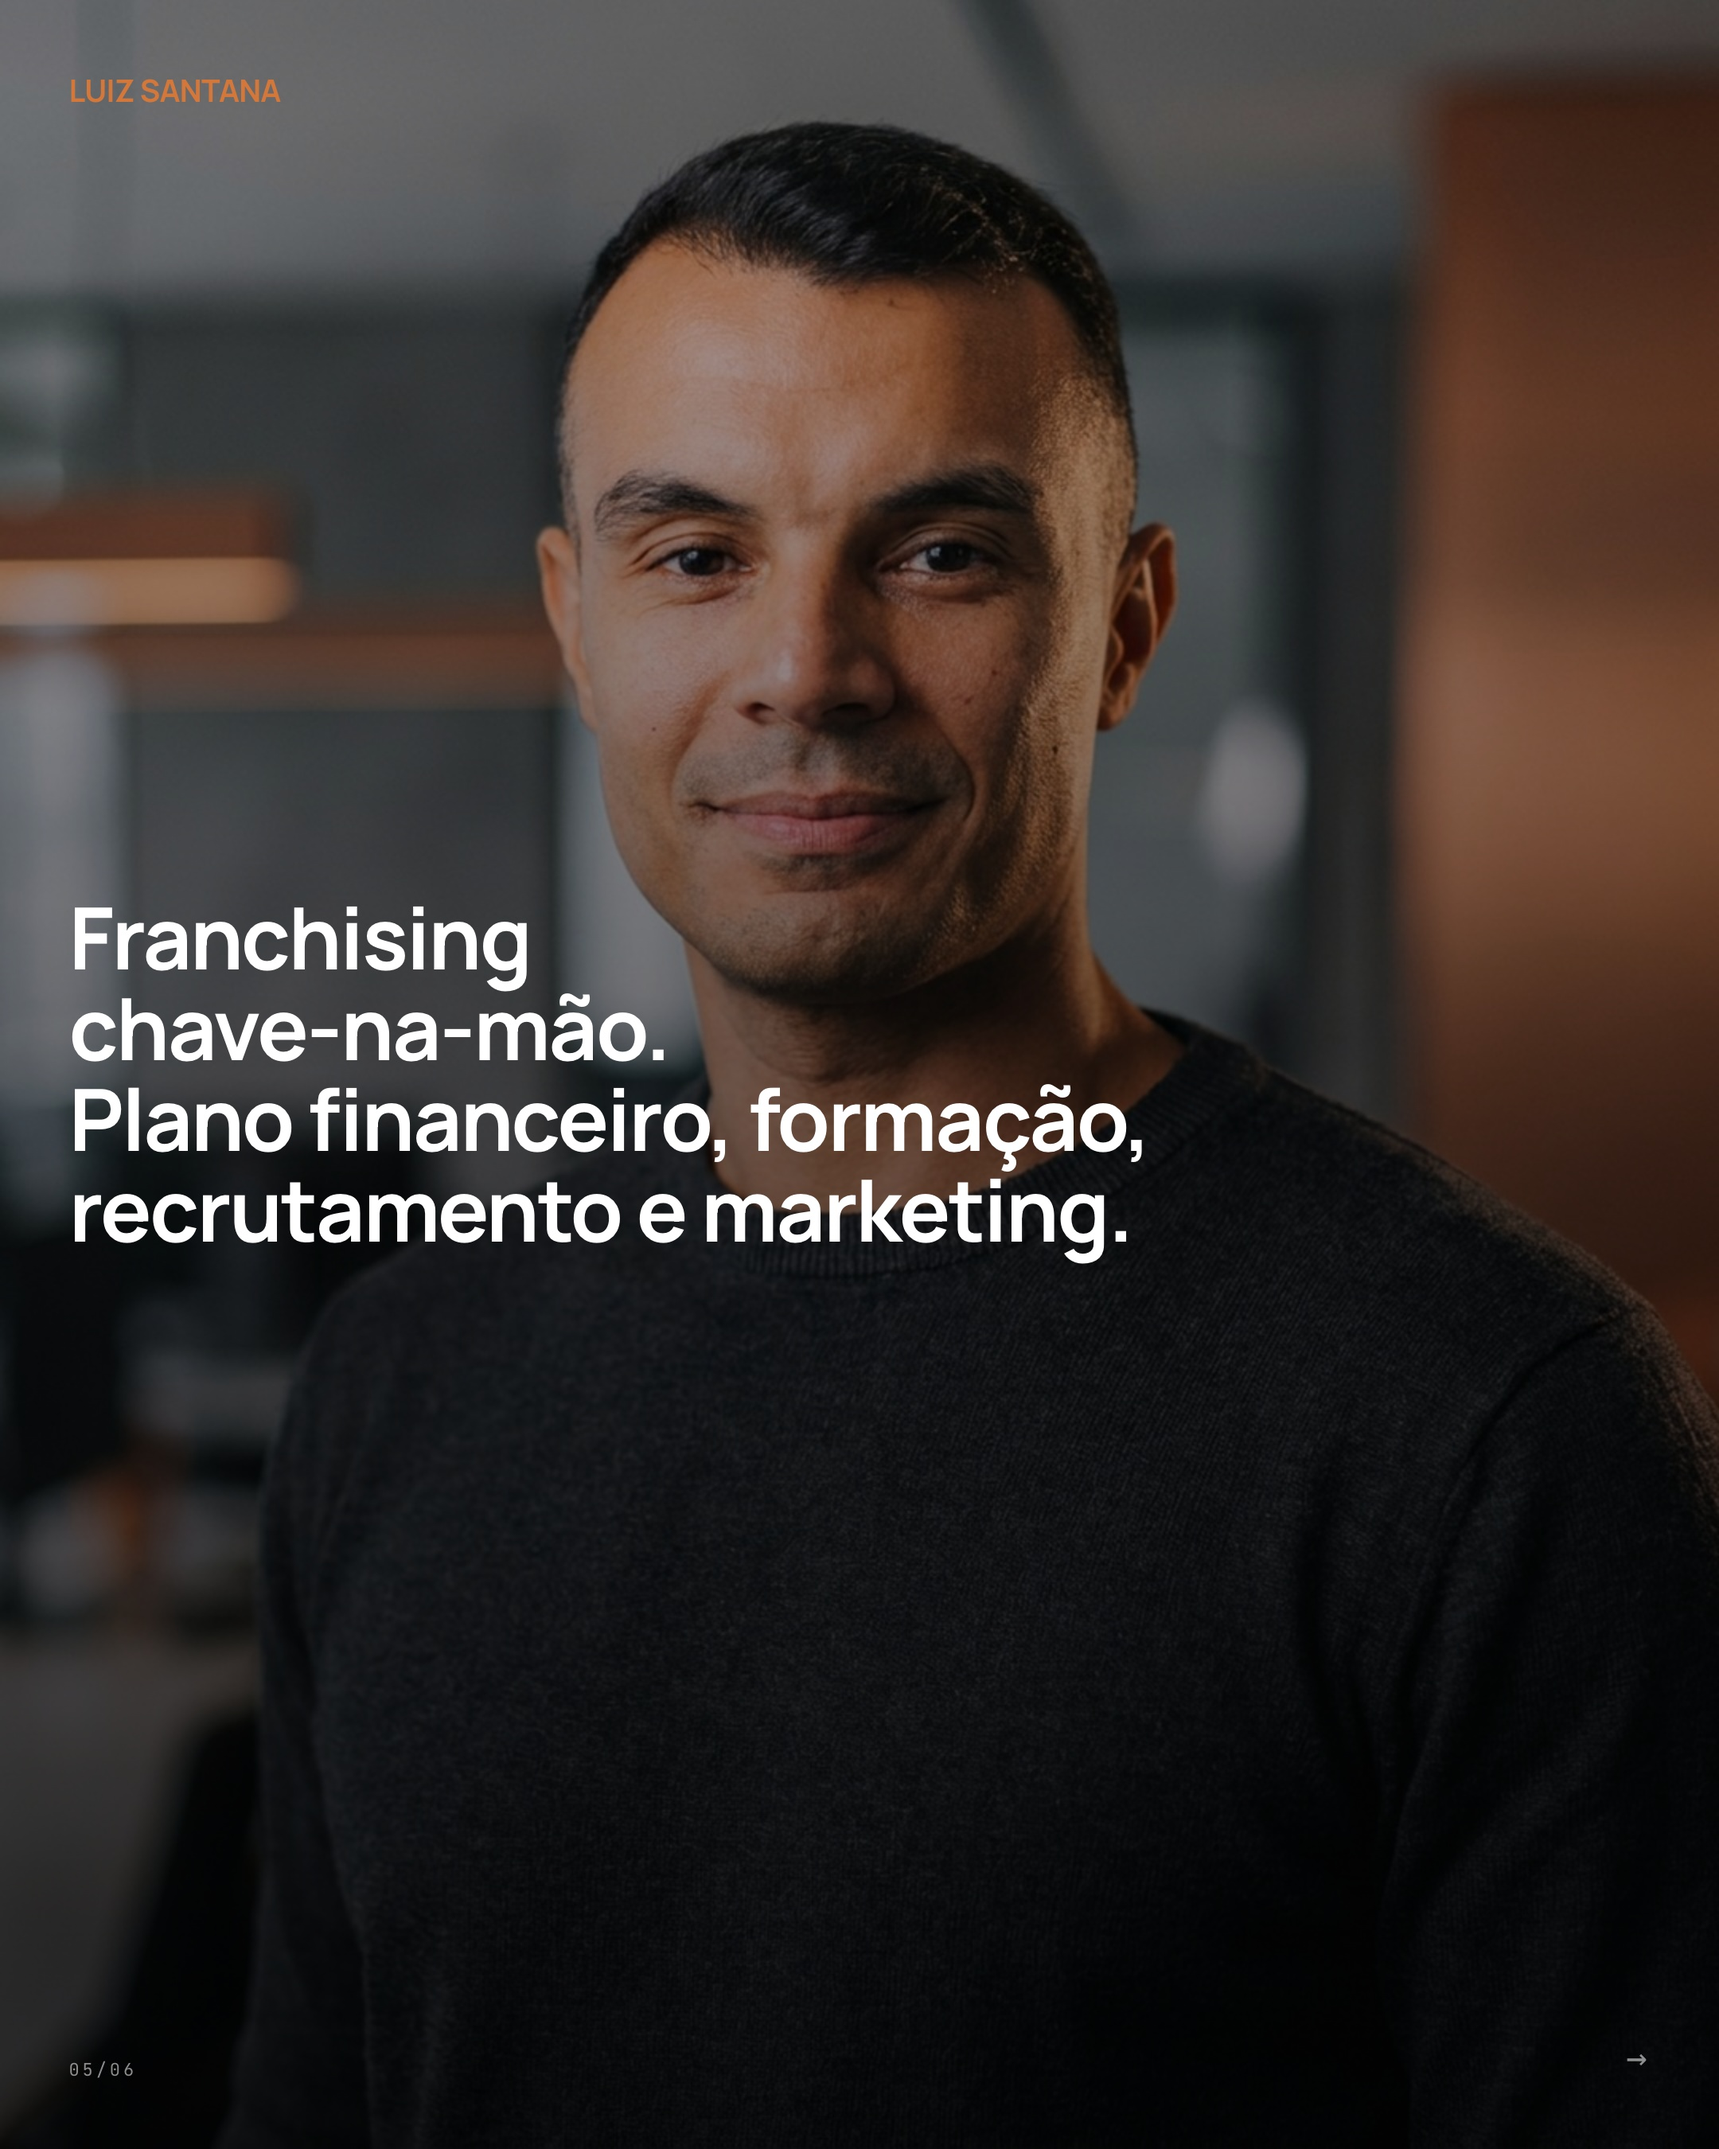
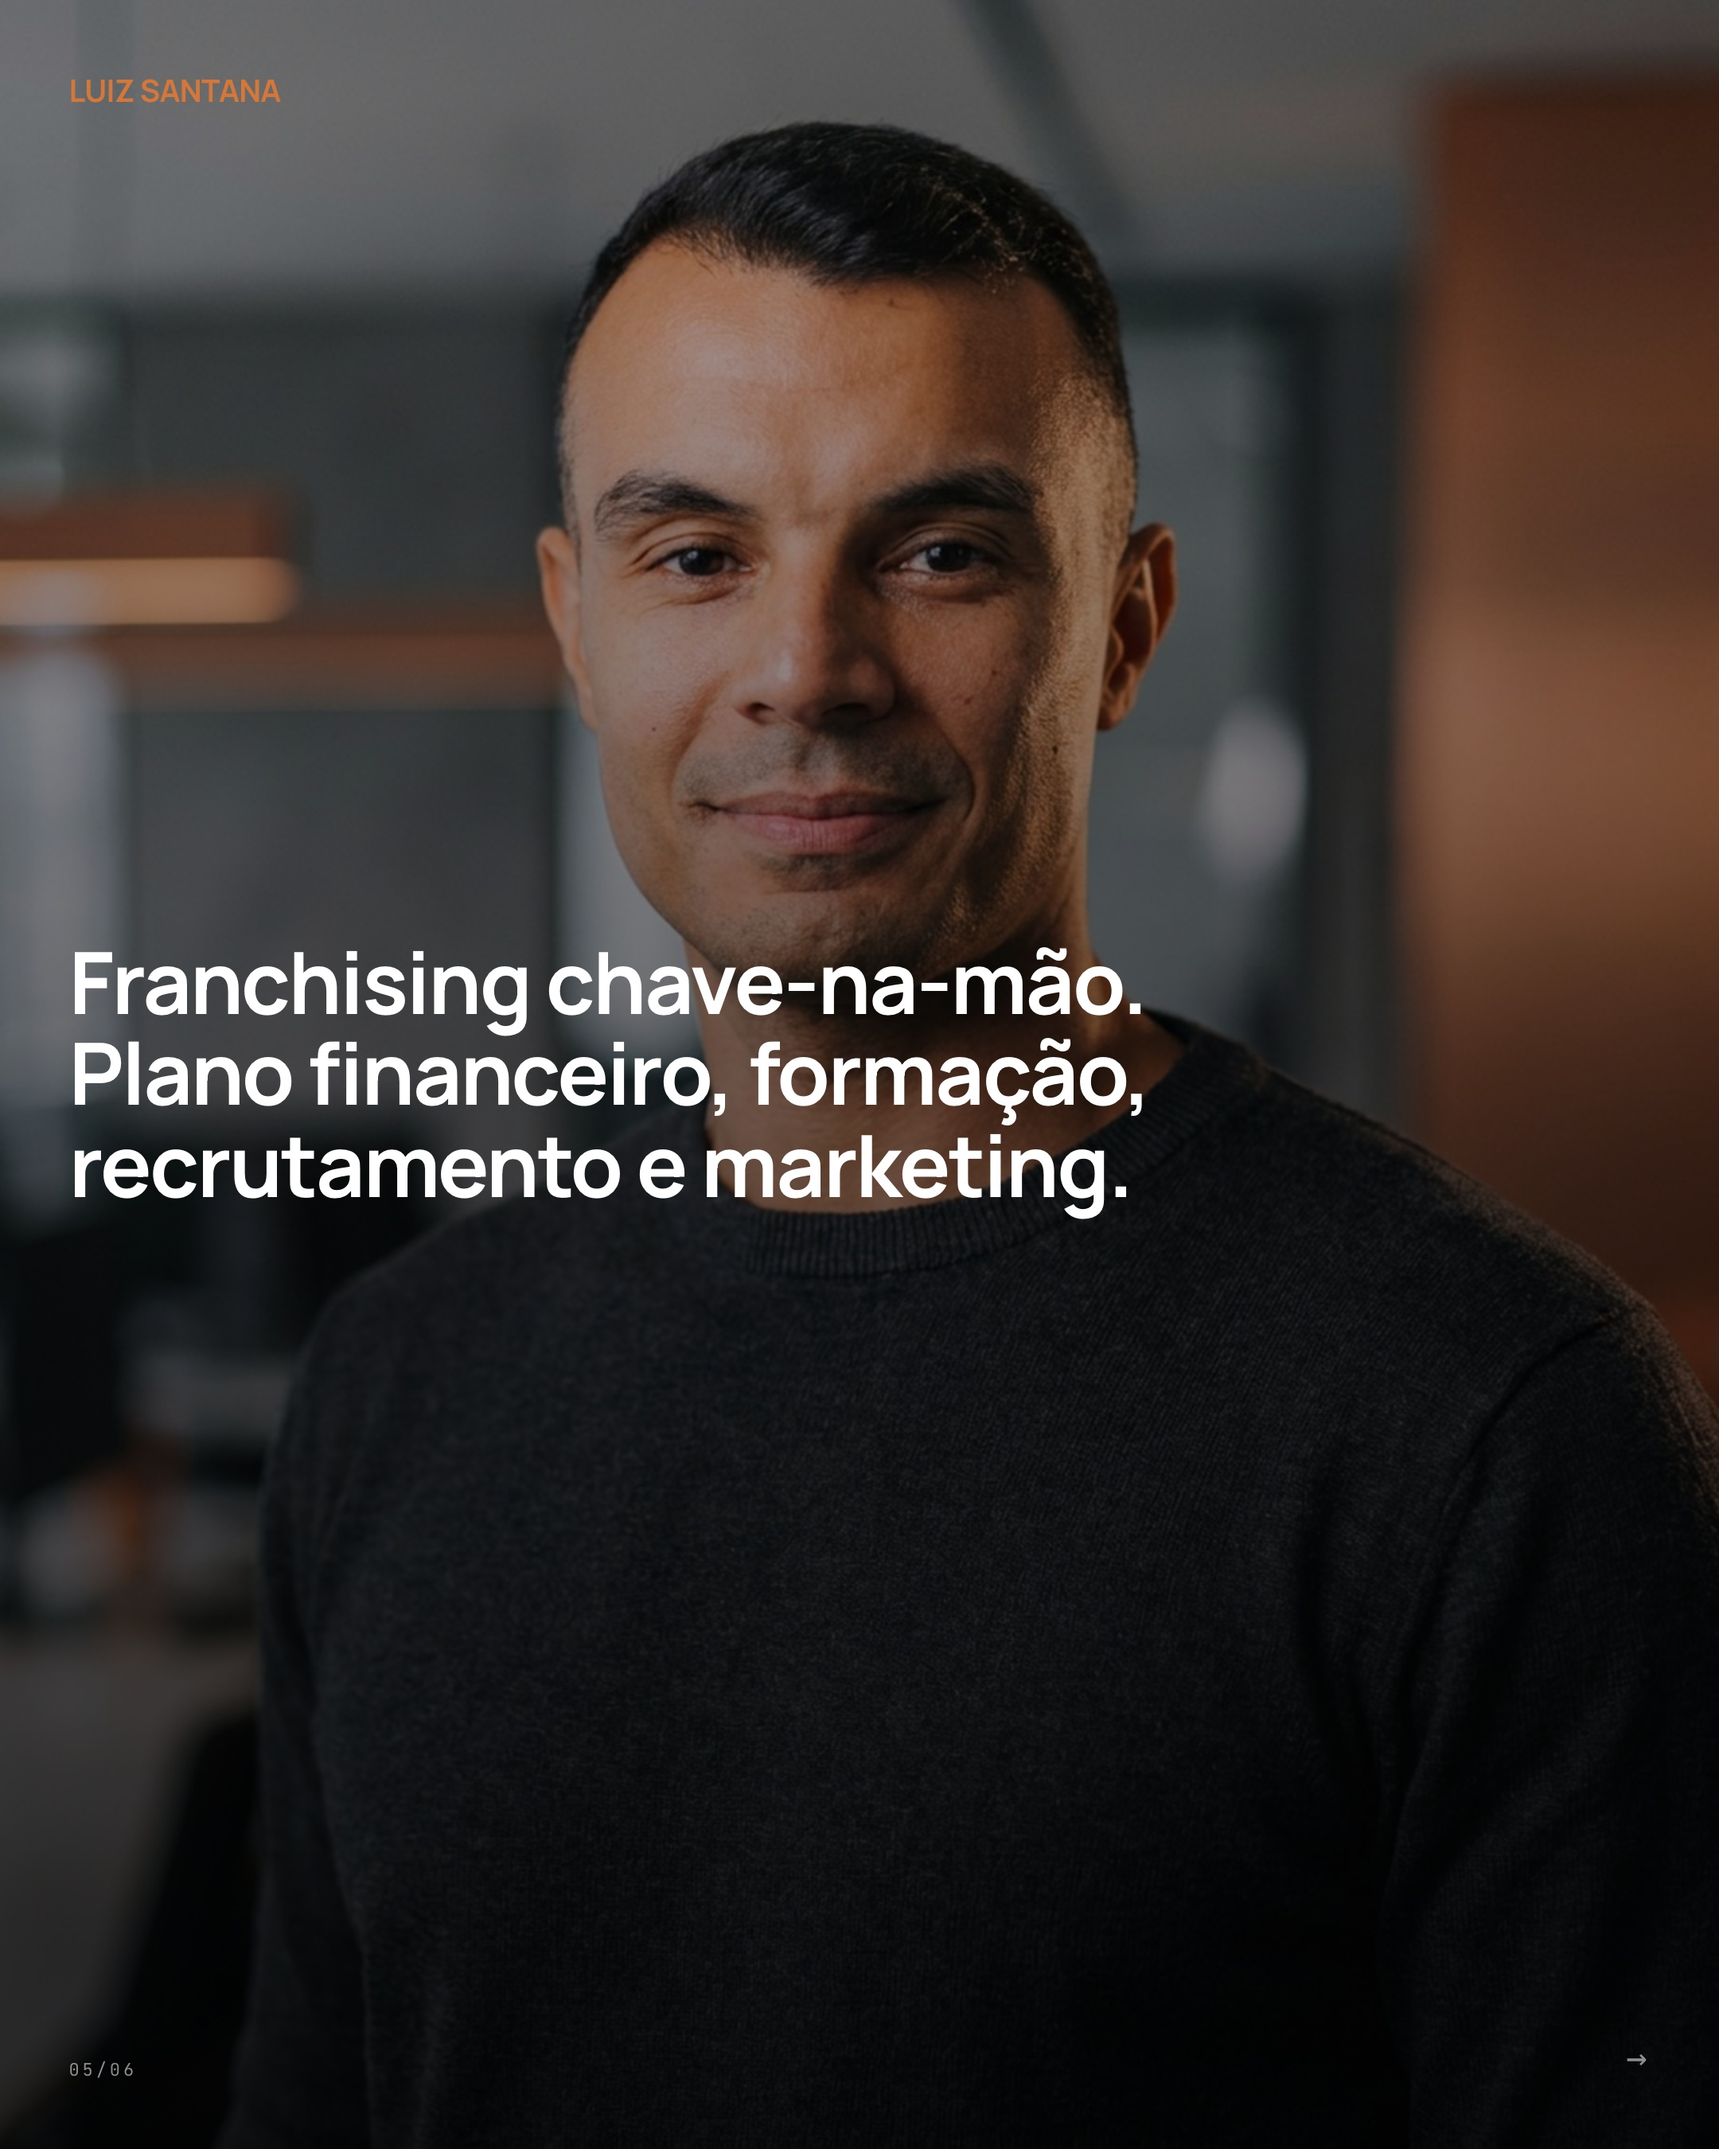
fix(c04 s5): 'Franchising chave-na-mão' numa só linha (termo não se parte)
Termo estava partido em 2 linhas ('Franchising' / 'chave-na-mão.').
- Luiz: re-cola como unidade não-quebrável (&nbsp; + hífens U+2011) → cabe numa
  linha à fonte atual, sem corte.
- TB: idem + reduz fonte do slide-5 p/ 52px e alarga coluna — à fonte grande
  não cabia e voltava a partir no hífen.
- re-render; v1850 (twins + franchise-tb partilham a imagem)

Changed region(s): [[0.031, 0.4044, 0.6824, 0.5911]]

diff --git a/public/brands/techbody/output/2026-05/carrosseis/c04-modelo-franchising.html b/public/brands/techbody/output/2026-05/carrosseis/c04-modelo-franchising.html
@@ -152,6 +152,7 @@ h1, h2, h3, p, blockquote, .num {
   text-wrap: pretty;
 }
 </style>
+<style>#slide-5 .slide__body h1{font-size:clamp(28px,4.8vw,52px)!important;max-width:27ch!important;width:27ch!important;line-height:1.1!important;}</style>
 </head>
 <body>
 <section class="carousel" aria-label="Carrossel TechBody — modelo_franchising">
@@ -189,7 +190,7 @@ h1, h2, h3, p, blockquote, .num {
 
 <article class="slide slide--type" id="slide-5">
   <div class="slide__top"><span class="brand-glyph">TechBody</span></div>
-  <div class="slide__body"><h1>Franchising<br>chave‑na‑mão:<br>plano de negócio,<br>formação,<br>recrutamento<br>e marketing digital.</h1></div>
+  <div class="slide__body"><h1>Franchising&nbsp;chave‑na‑mão:<br>plano de negócio,<br>formação,<br>recrutamento<br>e marketing digital.</h1></div>
   <div class="slide__bottom"><span>05/06</span><span class="arrow">→</span></div>
 </article>
 

diff --git a/public/brands/luiz_santana/output/2026-05/carrosseis/c04-b2b-ferramenta.html b/public/brands/luiz_santana/output/2026-05/carrosseis/c04-b2b-ferramenta.html
@@ -201,7 +201,7 @@ h1, h2, h3, p, blockquote, .num {
   <div class="slide__photo" style="background-image:url('../../../assets/photos/magnific_a2-convidativa-acolhedora_2964293661.jpg')"></div>
   <div class="slide__top"><span class="brand-glyph">Luiz Santana</span></div>
   <div class="slide__body">
-        <h1>Franchising<br>chave‑na‑mão.<br>Plano&nbsp;financeiro,&nbsp;formação,<br>recrutamento&nbsp;e&nbsp;marketing.</h1>
+        <h1>Franchising&nbsp;chave‑na‑mão.<br>Plano&nbsp;financeiro,&nbsp;formação,<br>recrutamento&nbsp;e&nbsp;marketing.</h1>
         </div>
   <div class="slide__bottom"><span>05/06</span><span class="arrow">→</span></div>
 </article>

diff --git a/public/aprovacao-luiz-202605/js/config.js b/public/aprovacao-luiz-202605/js/config.js
@@ -33,4 +33,4 @@ export const AUTH_ENABLED = false;
 // Versão do app. Comparada periodicamente contra /version.txt no servidor.
 // Se divergir, o badge muda para "🔄 Nova versão" e o user sabe que está
 // numa sessão desactualizada. Bump em cada deploy importante.
-export const APP_VERSION = "20260527-1840";
+export const APP_VERSION = "20260527-1850";

diff --git a/public/aprovacao-tb-202605/js/config.js b/public/aprovacao-tb-202605/js/config.js
@@ -33,4 +33,4 @@ export const AUTH_ENABLED = false;
 // Versão do app. Comparada periodicamente contra /version.txt no servidor.
 // Se divergir, o badge muda para "🔄 Nova versão" e o user sabe que está
 // numa sessão desactualizada. Bump em cada deploy importante.
-export const APP_VERSION = "20260527-1840";
+export const APP_VERSION = "20260527-1850";

diff --git a/public/franchise-tb-202605/index.html b/public/franchise-tb-202605/index.html
@@ -4,7 +4,7 @@
 <meta charset="utf-8" />
 <meta name="viewport" content="width=device-width,initial-scale=1" />
 <title>Conteúdos TechBody</title>
-<meta name="app-version" content="20260527-1830" />
+<meta name="app-version" content="20260527-1850" />
 
 <script>
   // Auto cache-bust por versão + Service Worker registration.

diff --git a/public/aprovacao-luiz-202605/index.html b/public/aprovacao-luiz-202605/index.html
@@ -3,7 +3,7 @@
 <head>
 <meta charset="utf-8" />
 <meta name="viewport" content="width=device-width,initial-scale=1" />
-<meta name="app-version" content="20260527-1840" />
+<meta name="app-version" content="20260527-1850" />
 <title>Aprovação · Conteúdo</title>
 
 <script>

diff --git a/public/aprovacao-tb-202605/index.html b/public/aprovacao-tb-202605/index.html
@@ -3,7 +3,7 @@
 <head>
 <meta charset="utf-8" />
 <meta name="viewport" content="width=device-width,initial-scale=1" />
-<meta name="app-version" content="20260527-1840" />
+<meta name="app-version" content="20260527-1850" />
 <title>Aprovação · Conteúdo</title>
 
 <script>
